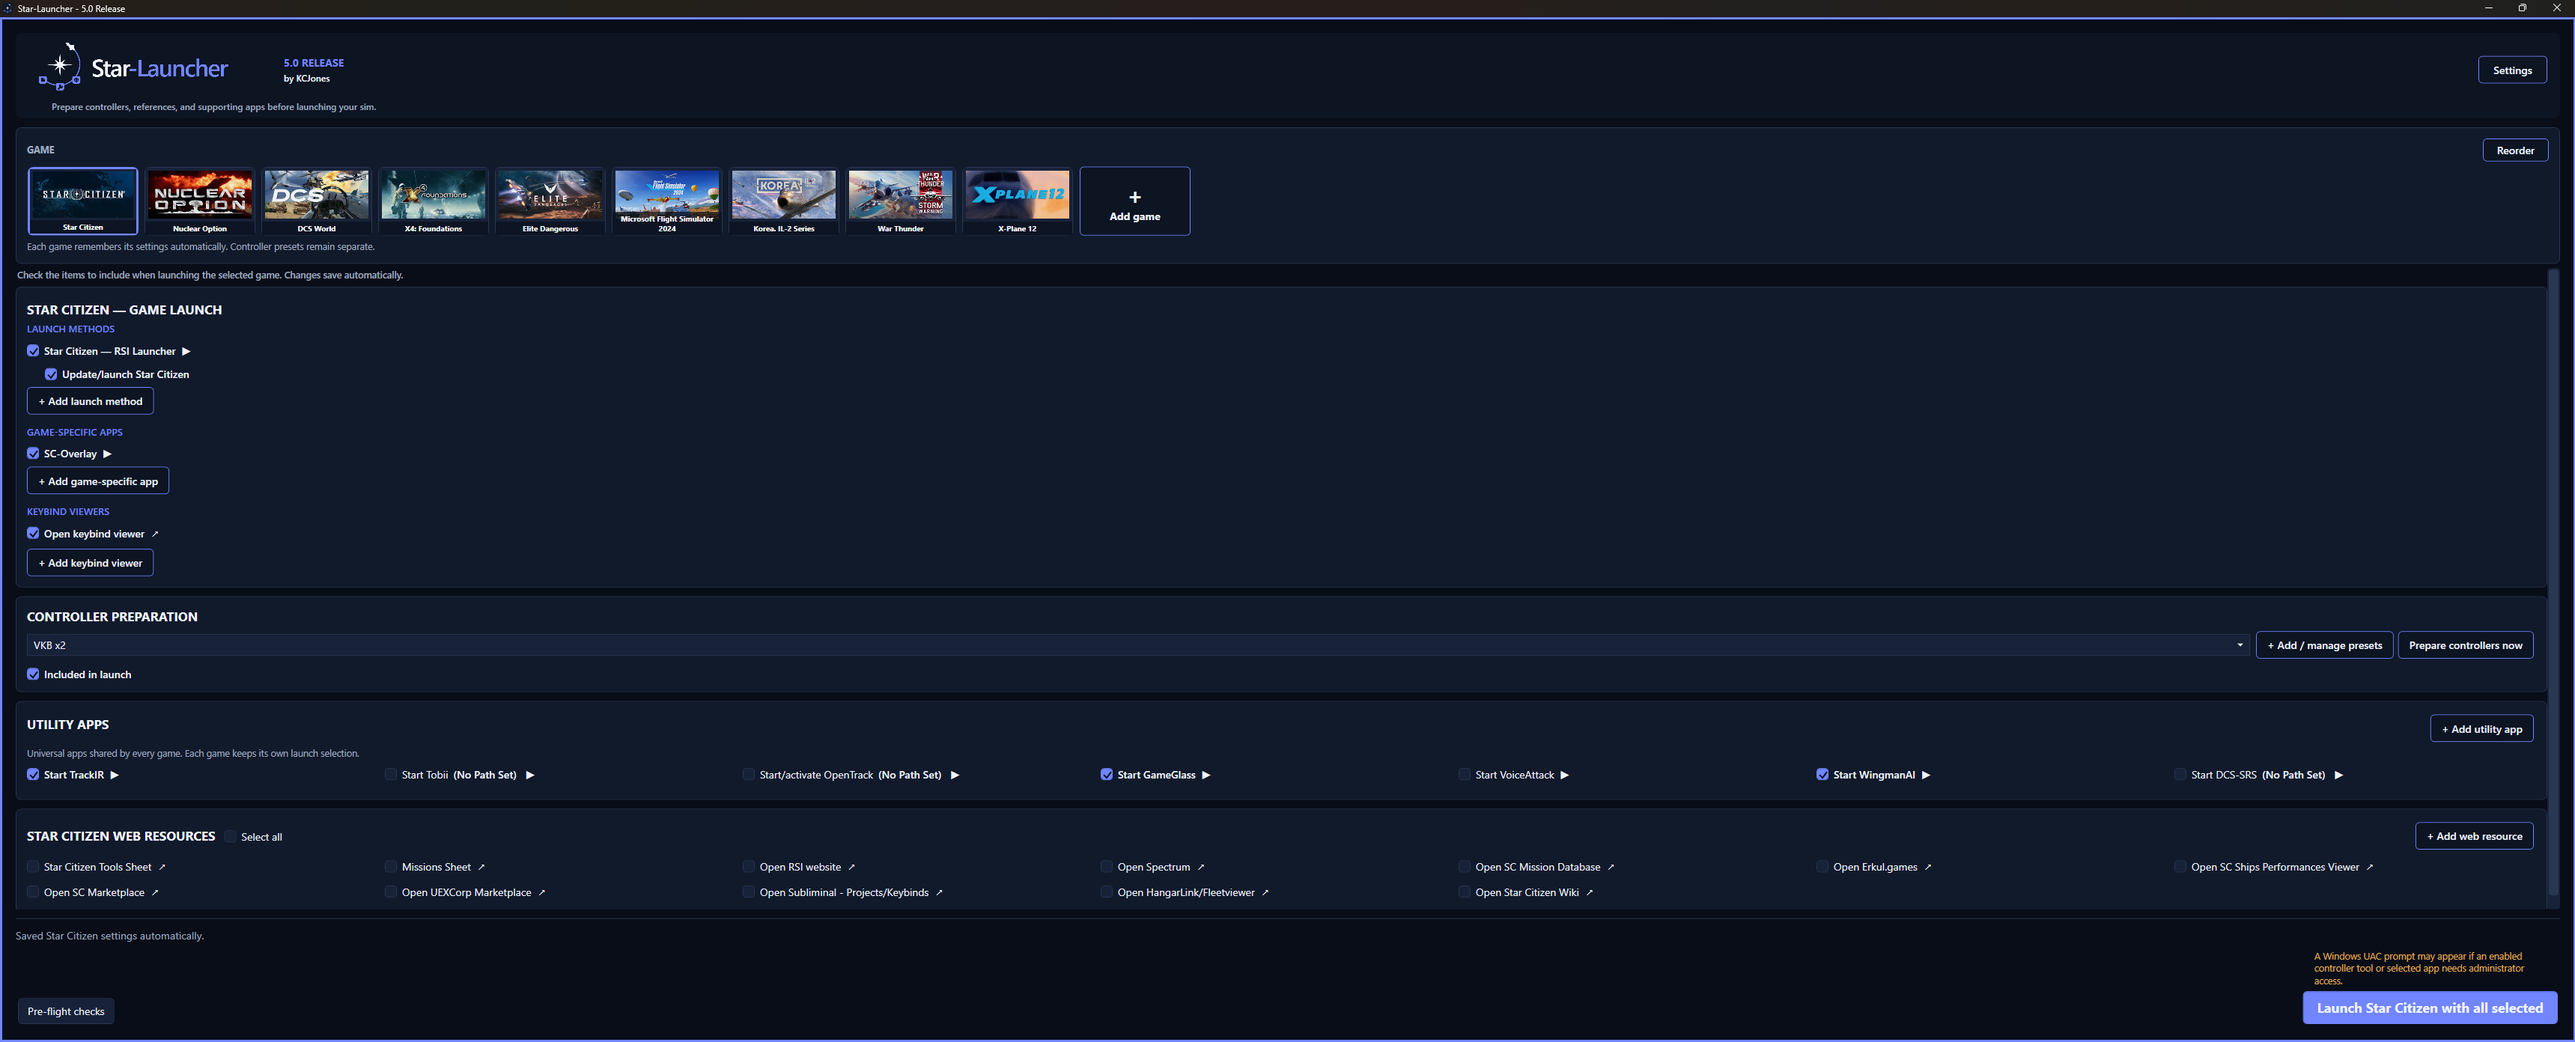
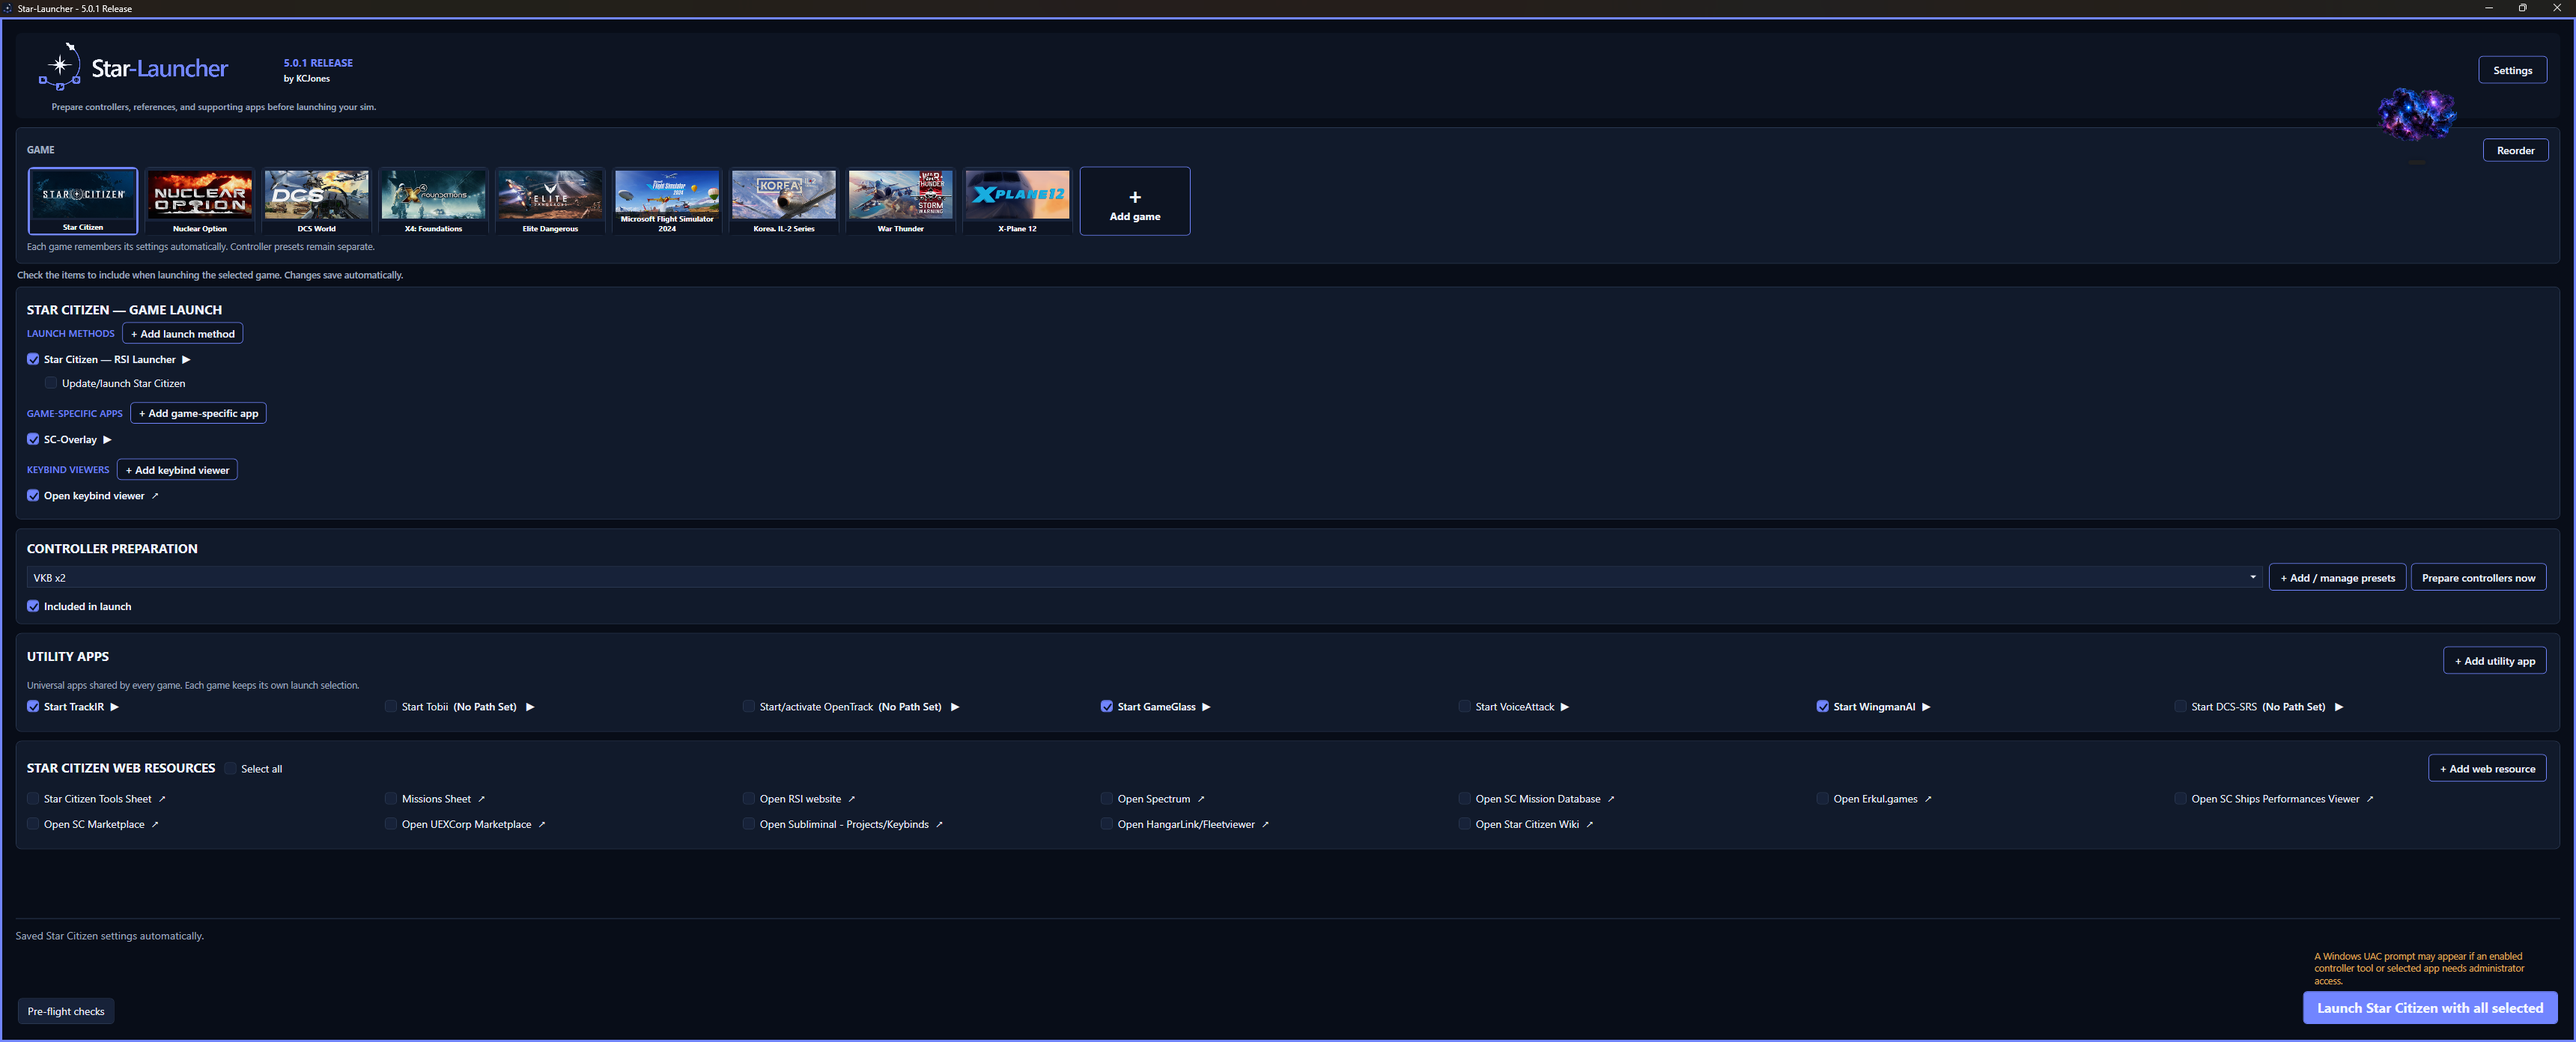
Update main launcher screenshots

diff --git a/index.html b/index.html
@@ -110,7 +110,7 @@
 
           <div class="product-preview" aria-label="Star-Launcher application preview">
             <a class="preview-frame hero-preview-link" href="assets/screenshots/star-launcher-main.png" data-lightbox-image data-lightbox-label="Main launcher" aria-label="View the Star-Launcher main window screenshot">
-              <img class="hero-screenshot" src="assets/screenshots/star-launcher-main.png" alt="Star-Launcher 5.0 main window showing native game tiles, DCS launch methods, game-specific apps, and keybind viewers" fetchpriority="high">
+              <img class="hero-screenshot" src="assets/screenshots/star-launcher-main.png" alt="Star-Launcher 5.0.1 main window showing native game tiles, launch methods, game-specific apps, keybind viewers, and add controls" fetchpriority="high">
             </a>
             <div class="preview-orbit orbit-one" aria-hidden="true"></div>
             <div class="preview-orbit orbit-two" aria-hidden="true"></div>
@@ -216,7 +216,7 @@
           </div>
           <div class="screenshot-grid">
             <a class="screenshot-placeholder screenshot-real screenshot-main" href="assets/screenshots/product-tour-main.png" data-lightbox-image>
-              <img src="assets/screenshots/product-tour-main.png" alt="Wide view of the Star-Launcher 5.0 main window" loading="lazy">
+              <img src="assets/screenshots/product-tour-main.png" alt="Full-width view of the Star-Launcher 5.0.1 main window and its updated add controls" loading="lazy">
               <span class="screenshot-caption"><strong>Main launcher</strong><small>View full screenshot</small></span>
             </a>
             <a class="screenshot-placeholder screenshot-real" href="assets/screenshots/settings-setup.png" data-lightbox-image>
